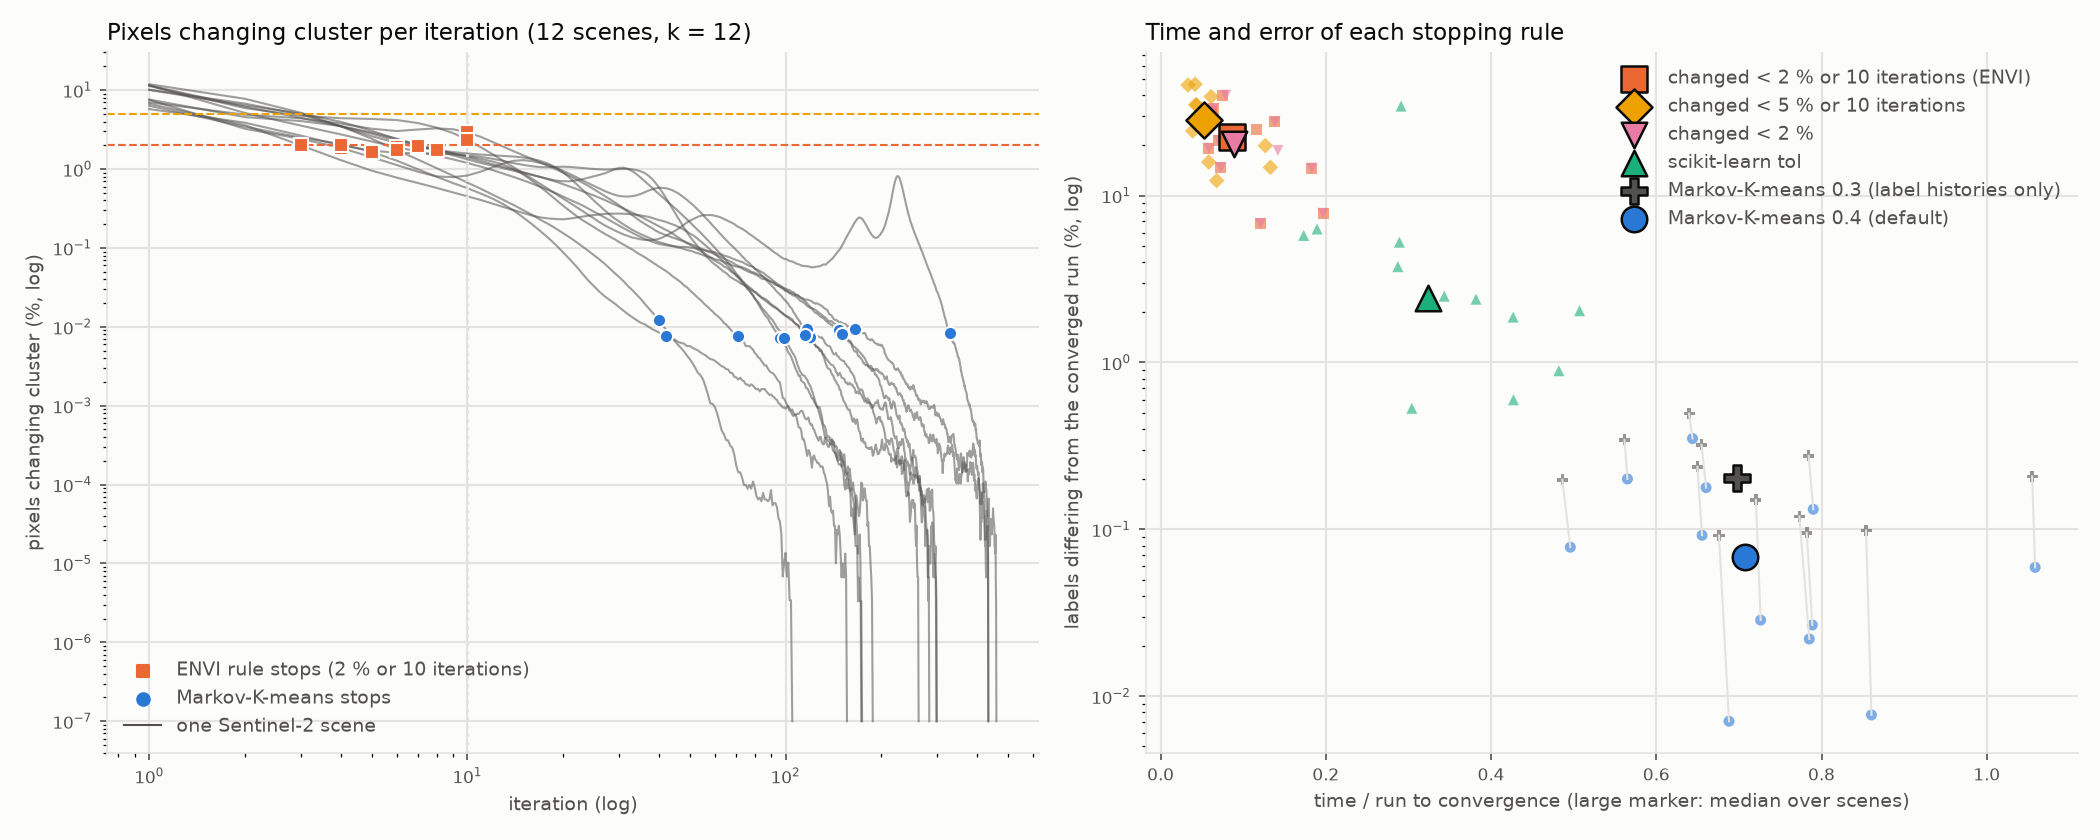
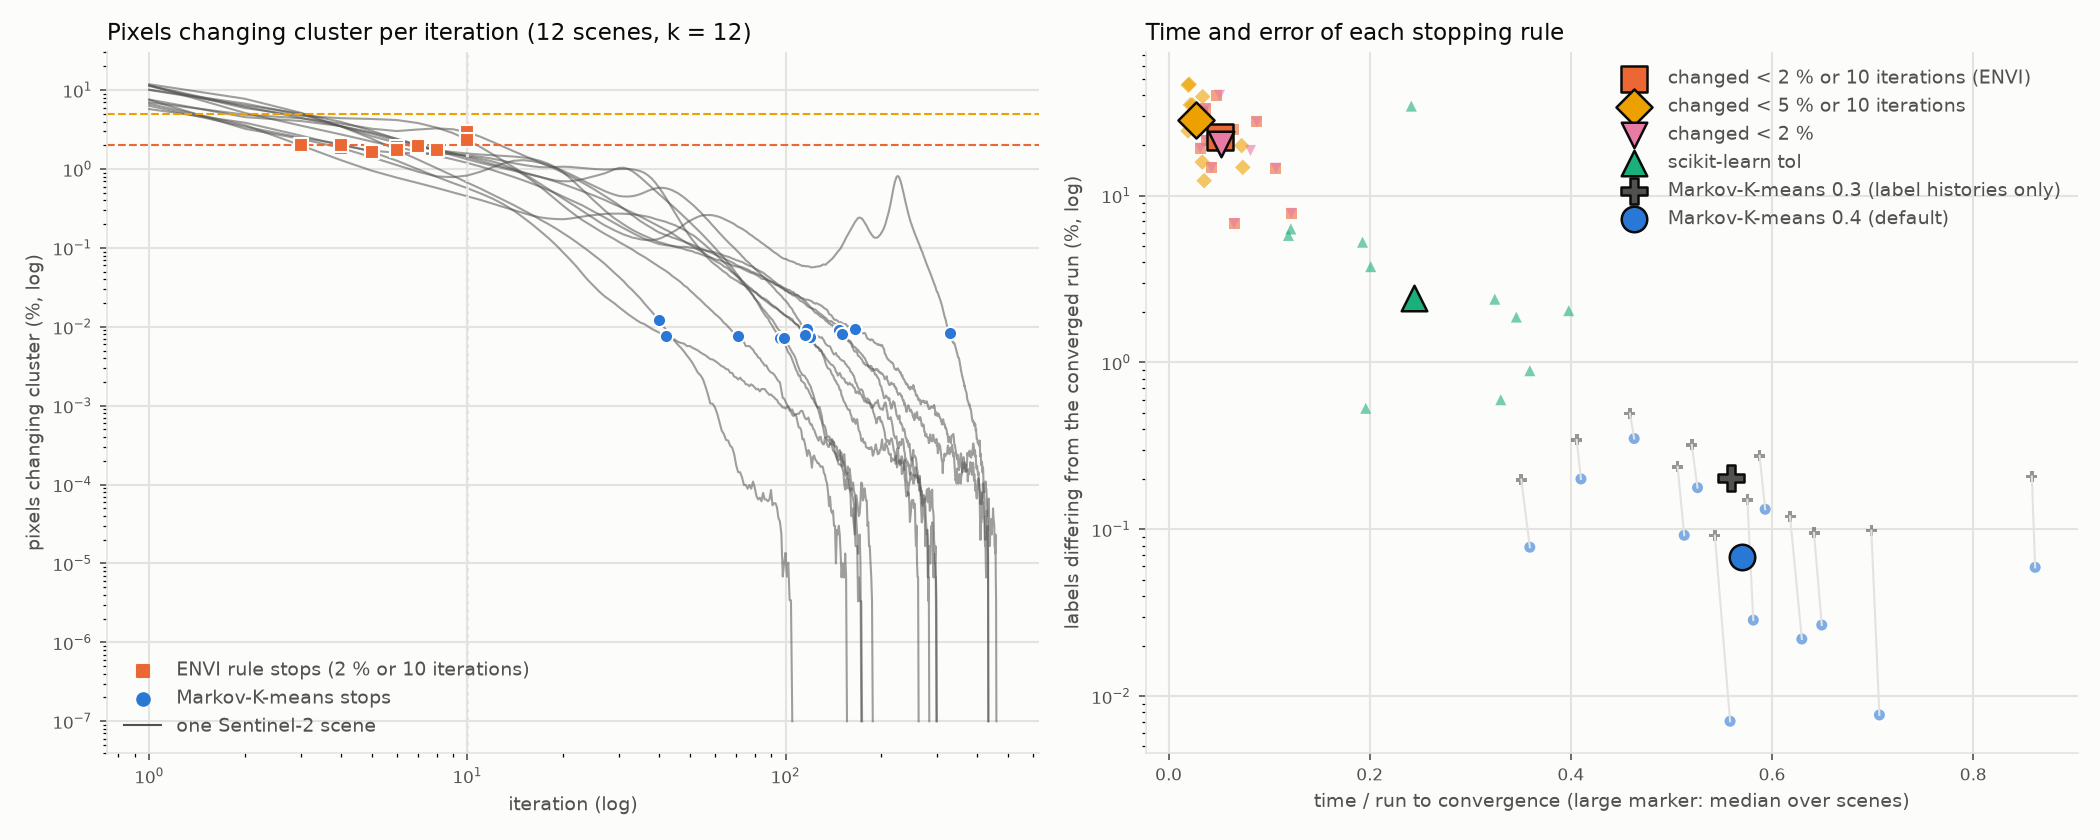
Results section 9 with the 0.4.1 rerun (same labels and stops, shorter times)
Claude-Session: https://claude.ai/code/session_01VqevGQgbnZeRsrAZKVeMPy

diff --git a/docs/results.md b/docs/results.md
@@ -24,7 +24,7 @@
 | **자동 판단 (6절)** | 움직이는 점의 비율, 대표점·분할의 안정성을 보고 개입 시점과 편입 방식을 고르는 규칙을 넣었다. N=10⁶ 10개 사례에서 끝까지 돌린 시간의 6–83%(판정 비용 포함)만 쓰고 오류율 0.05–0.62%를 낸다. 상수 스텝에서는 sklearn식 규칙이 전혀 멈추지 못하는 반면, 이 규칙은 10–62% 시점에서 멈추고 끝까지 돌린 결과와 비슷한 오류를 낸다. |
 | **비용·오차 동시 비교 (6.3절)** | 완성된 절차끼리 시간과 오류를 함께 비교하면, 10개 사례 모두에서 markov-kmeans 0.2.0보다 싸면서 정확한 절차가 없다. 표류 체제에서는 효율적인 정지 지점을 일관되게 고른다(사후 최적 정지 대비 시간 +0–5%, 최대 오류 0.62%). 진동 체제에서는 편입이 비용–오류 곡선 자체를 낮춰, 어떤 "멈춤 + 유지" 절차도 못 내는 결과를 낸다. |
 | **목표 오차별 시간 (6.4절)** | 각 절차의 설정을 바꿔 가며 같은 오류에 드는 시간을 비교하면, 상수 스텝에서는 markov-kmeans가 모든 목표에서 가장 빠르다(오류 ≤ 0.2%에 시간 46%, 다음은 63%). 라벨을 그대로 두는 절차가 끝까지 돌려도 못 내는 오류(≤ 0.1%)도 편입으로만 얻는다. 정확 Lloyd에서는 적응형 규칙들이 거의 같은 곡선 위에 있고, 설정을 조정한 Pérez-Ortega·sklearn tol이 markov-kmeans보다 3–6%p 빠르다. |
-| **실제 위성영상 (9절)** | Sentinel-2 장면 12개(장면당 3천만 화소)에서 수렴까지 105–460회가 걸려 꼬리가 실재한다. 원격탐사 기본값(변경 < 2% 또는 10회)은 시간 6–20%에 수렴 결과와 20%가량 다른 분할에서 멈추고, scikit-learn 기본값은 늦게 재편되는 장면에서 34%가 틀렸다. Markov-K-means는 조정 없이 12개 장면 모두 오차 0.5% 이하에서 멈췄고(0.3: 중앙값 0.20%, 시간 70%), 0.4는 같은 정지에서 중앙값 0.07%(최대 0.35%, 추가 시간 0.6%)다. 미결정 목록과 soft 소속도는 이 데이터(표류 체제)에서 쓸모가 없었다. |
+| **실제 위성영상 (9절)** | Sentinel-2 장면 12개(장면당 3천만 화소)에서 수렴까지 105–460회가 걸려 꼬리가 실재한다. 원격탐사 기본값(변경 < 2% 또는 10회)은 수렴 결과와 20%가량 다른 분할에서 멈추고, scikit-learn 기본값은 늦게 재편되는 장면에서 34%가 틀렸다. Markov-K-means는 조정 없이 12개 장면 모두 오차 0.5% 이하에서 멈췄다(0.3: 중앙값 0.20%). 0.4는 같은 정지에서 중앙값 0.07%(최대 0.35%, 추가 시간 0.6%)다. 0.4.1에서 시간은 끝까지 돌린 것의 중앙값 57%다. 미결정 목록과 soft 소속도는 이 데이터(표류 체제)에서 쓸모가 없었다. |
 | **넓은 지역 · 큰 k (9.1절)** | 한반도 남부 20개 타일(5,533만 화소, 60 m)을 k = 256으로 군집하면 수렴까지 2,752회가 걸린다. 모든 정지 규칙이 고정 반복 수의 시간–오차 곡선 위에 놓이고, Markov-K-means(시간 55%, 라벨 오차 5.8%, SSE 초과 0.012%)도 같은 시간의 고정 반복보다 낫지 않다. 다만 조정 없이 적합도로는 사실상 수렴한 지점을 찾는다. scikit-learn MiniBatchKMeans 기본값은 SSE가 24% 컸다. |
 | **의사 대표점 (10절, 0.4)** | 대표점마다 최근 경로를 AR(1) 연쇄로 맞춘 장기 평균(의사 대표점)으로 재배정하면, 아직 움직이지 않았지만 곧 경계를 넘을 점을 미리 옮긴다. 같은 정지 시점에서 오차가 합성 데이터 10개 사례 모두에서 3–22%, Sentinel-2 12개 장면 모두에서 29–92% 줄었다. 추가 비용은 끝까지 돌린 시간의 0–1.6%다. SSE가 늘면 채택하지 않으므로 0.3보다 나빠지지 않는다. |
 | **응용 (7–8절)** | **색 양자화**(사진 100장, 장당 2–21백만 화소)에서는 화질이 수렴 반복의 32–39% 시점에 이미 0.01 dB 안으로 들어와 긴 꼬리의 가치가 거의 없다. 자동 규칙은 손실 0.002 dB 이하로 안전하지만 보수적이고(시간 79–84%), 표본 학습이 가장 싸다. **EMA VQ 코드북**(MobileNetV2 잠재벡터, 픽셀 패치)에서는 벡터의 5–26%가 계속 코드를 바꾸고 코드가 크게 흔들려 전제가 깨진다. 자동 규칙은 개입하지 않았고, soft 토큰은 거리 기반이 이력 기반 π보다 약 두 배 낫다. |
@@ -1019,7 +1019,7 @@ VQ-VAE·VQGAN 같은 이미지 토크나이저는 인코더 출력 벡터를 가
 **설정**
 * **장면:** 지표 피복이 다른 12곳의 MGRS 타일(110 km × 110 km). 각 타일에서 2024년(순다르반스는 2023년) Sentinel-2 L2A 영상 중 구름이 가장 적은 것을 골랐다(구름 0–0.25%). AWS 공개 저장소(sentinel-cogs)에서 읽었다.
 * **특징:** 20 m 격자의 지표 반사율 10개 밴드(B02, B03, B04, B08은 10 m를 평균, B05, B06, B07, B8A, B11, B12). 장면 분류(SCL)가 결측·포화·구름·구름 그림자·권운으로 표시한 화소는 뺐다. 장면당 화소 2,930만–3,010만 개.
-* **실행:** 장면마다 k=12, k-means++ 초기화로 정확 K-means(Hamerly)를 **라벨이 하나도 바뀌지 않을 때까지** 한 번 돌렸다. 모든 정지 규칙을 같은 반복열 위에서 판정하므로, 규칙 사이의 차이는 멈춘 위치뿐이다.
+* **실행:** 장면마다 k=12, k-means++ 초기화로 정확 K-means(Hamerly)를 **라벨이 하나도 바뀌지 않을 때까지** 한 번 돌렸다. 아래 수치는 0.4.1(4코어 병렬 배정, 10.1절의 Markov 부분)로 다시 돌린 결과다. 라벨과 정지 시점은 0.4.0 때와 모든 장면에서 같고, 시간만 다르다(0.4.0의 결과는 `experiments/results/archive/*_v040.csv`). 모든 정지 규칙을 같은 반복열 위에서 판정하므로, 규칙 사이의 차이는 멈춘 위치뿐이다.
 * **정지 규칙**
 
 | 규칙 | 내용 |
@@ -1056,25 +1056,25 @@ VQ-VAE·VQGAN 같은 이미지 토크나이저는 인코더 출력 벡터를 가
 <!-- TABLE:sentinel2_rules -->
 | 정지 규칙 | 시간 (중앙값) | 시간 (범위) | 오차 (중앙값) | 오차 (최대) | SSE 초과 (중앙값) |
 |---|---|---|---|---|---|
-| 변경 < 2 % 또는 10회 (ENVI 기본값) | 9% | 6%–20% | 22.59% | 39.79% | 2.094% |
-| 변경 < 5 % 또는 10회 | 5% | 3%–13% | 28.23% | 46.46% | 5.566% |
-| 변경 < 2 % (상한 없음) | 9% | 6%–20% | 20.30% | 39.94% | 1.783% |
-| scikit-learn tol (기본값) | 32% | 17%–51% | 2.44% | 34.35% | 0.022% |
-| Markov-K-means 0.3 (라벨 이력 정리만) | 70% | 49%–105% | 0.20% | 0.49% | 0.000% |
-| Markov-K-means 0.4 (기본값) | 71% | 50%–106% | 0.07% | 0.35% | 0.000% |
-| Markov-K-means 0.4 정지 시점 (감시 비용 제외) | 61% | 44%–86% | 0.07% | 0.35% | 0.000% |
+| 변경 < 2 % 또는 10회 (ENVI 기본값) | 5% | 3%–12% | 22.59% | 39.79% | 2.094% |
+| 변경 < 5 % 또는 10회 | 3% | 2%–7% | 28.23% | 46.46% | 5.566% |
+| 변경 < 2 % (상한 없음) | 5% | 3%–12% | 20.30% | 39.94% | 1.783% |
+| scikit-learn tol (기본값) | 24% | 12%–40% | 2.44% | 34.35% | 0.022% |
+| Markov-K-means 0.3 (라벨 이력 정리만) | 56% | 35%–86% | 0.20% | 0.49% | 0.000% |
+| Markov-K-means 0.4 (기본값) | 57% | 36%–86% | 0.07% | 0.35% | 0.000% |
+| Markov-K-means 0.4 정지 시점 (감시 비용 제외) | 54% | 35%–81% | 0.07% | 0.35% | 0.000% |
 | 끝까지 (기준) | 100% | 100%–100% | 0.00% | 0.00% | 0.000% |
 <!-- /TABLE -->
 
 **결과**
 * **꼬리는 실제 위성영상에도 있다.** 3천만 화소 장면이 끝까지 수렴하는 데 105–460회가 걸렸다. 라벨 변화율은 처음 몇 회에 수 %에서 1–2%로 떨어진 뒤, 반복 수백 회에 걸쳐 천천히 줄어든다(그림 왼쪽).
-* **원격탐사 기본값은 너무 일찍 멈춘다.** ENVI 기본값은 시간 6–20%에서 멈추지만, 수렴한 분할과 라벨이 다른 화소가 6.8–39.8%(중앙값 22.6%)다. 10회 상한이 2% 기준보다 먼저 걸린 장면은 아이오와와 센트럴 밸리 2곳이다. 다만 SSE는 0.8–7.8%만 크다. 대략적인 피복 구분이 목적이라면 이 규칙으로 충분하다.
-* **scikit-learn 기본값은 대개 괜찮지만 늦은 재편에서 크게 틀린다.** 시간 17–51%에 오차 중앙값 2.4%다. 하지만 센트럴 밸리처럼 군집이 250회 무렵까지 천천히 재편되는 장면에서는 84회에 멈춰 34%가 틀렸다(그림 왼쪽에서 늦게 솟는 곡선).
-* **Markov-K-means는 조정 없이 늘 수렴 결과 근처에서 멈춘다.** 0.3(라벨 이력 정리만)은 12개 장면 모두 오차 0.09–0.49%(중앙값 0.20%), 시간 49–105%(중앙값 70%)다. 센트럴 밸리에서도 재편이 끝날 때까지 기다렸다(328회).
-* **0.4는 같은 정지 시점에서 오차를 다시 3분의 1로 줄인다.** 의사 대표점으로 재배정하면 12개 장면 모두 오차가 줄어 0.007–0.35%(중앙값 0.07%)가 된다. 추가 시간은 끝까지 돌린 시간의 0.4–1.2%(중앙값 0.6%)이고, SSE 안전장치는 12개 장면 모두에서 새 라벨을 채택했다(아래 표).
+* **원격탐사 기본값은 너무 일찍 멈춘다.** ENVI 기본값은 시간 3–12%에서 멈추지만, 수렴한 분할과 라벨이 다른 화소가 6.8–39.8%(중앙값 22.6%)다. 10회 상한이 2% 기준보다 먼저 걸린 장면은 아이오와와 센트럴 밸리 2곳이다. 다만 SSE는 0.8–7.8%만 크다. 대략적인 피복 구분이 목적이라면 이 규칙으로 충분하다.
+* **scikit-learn 기본값은 대개 괜찮지만 늦은 재편에서 크게 틀린다.** 시간 12–40%에 오차 중앙값 2.4%다. 하지만 센트럴 밸리처럼 군집이 250회 무렵까지 천천히 재편되는 장면에서는 84회에 멈춰 34%가 틀렸다(그림 왼쪽에서 늦게 솟는 곡선).
+* **Markov-K-means는 조정 없이 늘 수렴 결과 근처에서 멈춘다.** 0.3(라벨 이력 정리만)은 12개 장면 모두 오차 0.09–0.49%(중앙값 0.20%), 시간 35–86%(중앙값 56%)다. 센트럴 밸리에서도 재편이 끝날 때까지 기다렸다(328회).
+* **0.4는 같은 정지 시점에서 오차를 다시 3분의 1로 줄인다.** 의사 대표점으로 재배정하면 12개 장면 모두 오차가 줄어 0.007–0.35%(중앙값 0.07%)가 된다. 추가 시간은 끝까지 돌린 시간의 0.3–1.5%(중앙값 0.6%)이고, SSE 안전장치는 12개 장면 모두에서 새 라벨을 채택했다(아래 표).
 * **고정 반복 수로는 같은 결과를 못 낸다.** 오차 1% 이하를 모든 장면에서 얻으려면 약 300회가 필요한데(센트럴 밸리), 12개 장면 중 9개는 300회 안에 끝까지 수렴하므로 그 설정은 사실상 "끝까지 돌리기"와 같다. 오차 0.5% 이하에 필요한 횟수는 장면마다 30회에서 300회 이상까지 달라서 미리 고를 수 없다.
-* **시간 절감은 크지 않다.** 끝까지 돌리는 것 대비 절감은 중앙값 29%(0.4)다. 실제 위성영상은 d=10으로 저차원이라 Hamerly의 늦은 반복이 싸기 때문이다(첫 반복의 1/4–1/7). 감시기 비용이 5–20%p(중앙값 11%p)를 차지해 센트럴 밸리에서는 끝까지 돌리는 것보다 6% 더 걸렸다. 정지 시점만 보면 44–86%(중앙값 61%)다.
-* **감시기 개선:** 처음 실행한 0.3.0의 감시기는 3천만 화소에서 판정 한 번에 1초 넘게 걸려, 서울 장면에서 끝까지 돌린 시간의 101%를 썼다(`experiments/results/archive/`). 판정은 그대로 두고 라벨 기록·군집 크기 계산을 컴파일 코드로 바꾸자 77%로 줄었다. 위 표는 개선 후 결과다.
+* **시간 절감은 중간 정도다.** 끝까지 돌리는 것 대비 절감은 중앙값 43%(14–64%)다. 실제 위성영상은 d=10으로 저차원이라 Hamerly의 늦은 반복이 싸기 때문이다(첫 반복의 1/4–1/7). 감시기 비용은 0.4.1에서 1.2–5.1%(중앙값 3%)다. 0.4.0에서는 5–20%(중앙값 11%)여서, 센트럴 밸리처럼 꼬리가 긴 장면에서는 끝까지 돌리는 것보다 6% 더 걸렸다. 0.4.1에서는 그 장면도 86%에 끝난다. 정지 시점만 보면 35–81%(중앙값 54%)다.
+* **감시기 개선의 역사:** 처음 실행한 0.3.0의 감시기는 3천만 화소에서 판정 한 번에 1초 넘게 걸려, 서울 장면에서 끝까지 돌린 시간의 101%를 썼다. 0.3.1에서 라벨 기록과 군집 크기 계산을 컴파일 코드로 바꾸자 77%로 줄었다. 0.4.1에서는 엔진이 바뀐 점을 알려 주고 Markov 연산을 병렬화해 63%가 되었다(10.1절). 판정은 줄곧 같다. 이전 결과는 `experiments/results/archive/`에 있다.
 
 **0.3과 0.4: 같은 정지 시점, 두 가지 마무리**
 
@@ -1083,16 +1083,16 @@ VQ-VAE·VQGAN 같은 이미지 토크나이저는 인코더 출력 벡터를 가
 |---|---|---|---|---|---|---|---|---|---|---|
 | Seoul | 0.120% | 0.022% | 30,066 | 884 | 0.10% | 97% | 1.2% | 16.1% | 1.2% | 0.94 |
 | Iowa | 0.276% | 0.132% | 43,368 | 1 | 0.14% | 100% | 0.0% | 0.0% | 0.6% | 0.95 |
-| Central Valley | 0.207% | 0.059% | 44,644 | 55 | 0.15% | 100% | 0.0% | 0.4% | 0.4% | 0.95 |
+| Central Valley | 0.207% | 0.059% | 44,644 | 55 | 0.15% | 100% | 0.0% | 0.4% | 0.3% | 0.95 |
 | Sahara | 0.494% | 0.350% | 43,246 | 20 | 0.14% | 100% | 0.0% | 0.1% | 0.4% | 0.95 |
-| Nile Delta | 0.098% | 0.008% | 28,381 | 1,056 | 0.10% | 96% | 0.0% | 45.3% | 0.7% | 0.93 |
-| Netherlands | 0.095% | 0.027% | 28,116 | 7,486 | 0.12% | 79% | 0.1% | 93.0% | 0.7% | 0.93 |
+| Nile Delta | 0.098% | 0.008% | 28,381 | 1,056 | 0.10% | 96% | 0.0% | 45.3% | 0.8% | 0.93 |
+| Netherlands | 0.095% | 0.027% | 28,116 | 7,486 | 0.12% | 79% | 0.1% | 93.0% | 0.8% | 0.93 |
 | Swiss Alps | 0.150% | 0.029% | 36,917 | 672 | 0.13% | 98% | 0.0% | 8.0% | 0.6% | 0.95 |
 | Finland | 0.321% | 0.178% | 42,714 | 19 | 0.14% | 100% | 0.0% | 0.1% | 0.6% | 0.95 |
-| Ganges Plain | 0.237% | 0.092% | 43,697 | 105 | 0.15% | 100% | 0.0% | 0.4% | 0.6% | 0.95 |
+| Ganges Plain | 0.237% | 0.092% | 43,697 | 105 | 0.15% | 100% | 0.0% | 0.4% | 0.7% | 0.95 |
 | Central Australia | 0.343% | 0.201% | 43,004 | 17 | 0.14% | 100% | 0.0% | 0.1% | 0.4% | 0.95 |
-| Sundarbans | 0.092% | 0.007% | 25,537 | 700 | 0.09% | 97% | 0.1% | 34.2% | 1.2% | 0.88 |
-| Amazon | 0.198% | 0.078% | 36,186 | 62 | 0.12% | 100% | 0.4% | 1.0% | 1.0% | 0.89 |
+| Sundarbans | 0.092% | 0.007% | 25,537 | 700 | 0.09% | 97% | 0.1% | 34.2% | 1.5% | 0.88 |
+| Amazon | 0.198% | 0.078% | 36,186 | 62 | 0.12% | 100% | 0.4% | 1.0% | 0.8% | 0.89 |
 <!-- /TABLE -->
 
 * **옮긴 화소는 거의 다 맞다.** 의사 대표점이 옮긴 화소는 장면당 0.09–0.15%이고, 그중 79–100%(12개 중 10개 장면에서 96% 이상)가 끝까지 돌린 결과와 같은 군집으로 갔다. 고친 화소는 장면당 2.6만–4.5만 개, 망친 화소는 대부분 수십–수백 개였다. 예외는 네덜란드(7,486개, 옮긴 화소의 21%)다.
@@ -1140,7 +1140,7 @@ VQ-VAE·VQGAN 같은 이미지 토크나이저는 인코더 출력 벡터를 가
 
 * 미결정 여부와 1 − max π로 혼합 화소를 가려내는 능력은 0.3과 0.4 모두 무작위 수준이다(AUROC 0.50). 미결정 점이 너무 적다(0.1–0.3%). 0.4에서는 의사 대표점이 옮긴 화소도 분수형 소속도를 받아 장면당 3,100–4,600개로 늘었지만, 혼합 화소가 33–81%인 데이터에서 0.1%로는 가려낼 수 없다. 가장 가까운 두 대표점까지의 거리 비는 AUROC 0.73–0.86으로 훨씬 낫다. 표류 체제의 분수형 소속도는 "아직 미결정"일 뿐 혼합 비율이 아니라는 5절의 결론이 실제 위성영상에서도 그대로 확인됐다.
 
-**정리:** 실제 위성영상에서 Markov-K-means의 쓸모는 **"수렴한 분할이 필요하지만 장면마다 정지 기준을 조정하고 싶지 않을 때"**다. 이 경우 기존의 어떤 단일 설정보다 안정적으로 수렴 결과 근처에서 멈추고, 0.4의 의사 대표점은 같은 정지 시점에서 남은 차이를 다시 3분의 1로 줄인다(중앙값 0.20% → 0.07%, 추가 시간 0.6%). 반대로 대략적인 피복 구분이면 싼 규칙으로 충분하고, 혼합 화소 표시에는 거리 기반 지표가 낫다. 시간 절감은 중앙값 30% 안팎이고, 남은 감시기 비용을 반복 계산 안으로 합치면 정지 시점 기준(중앙값 39% 절감)까지 줄일 여지가 있다.
+**정리:** 실제 위성영상에서 Markov-K-means의 쓸모는 **"수렴한 분할이 필요하지만 장면마다 정지 기준을 조정하고 싶지 않을 때"**다. 이 경우 기존의 어떤 단일 설정보다 안정적으로 수렴 결과 근처에서 멈추고, 0.4의 의사 대표점은 같은 정지 시점에서 남은 차이를 다시 3분의 1로 줄인다(중앙값 0.20% → 0.07%, 추가 시간 0.6%). 반대로 대략적인 피복 구분이면 싼 규칙으로 충분하고, 혼합 화소 표시에는 거리 기반 지표가 낫다. 시간 절감은 0.4.1에서 중앙값 43%다.
 
 ### 9.1 넓은 지역 · 큰 k: 한반도 남부 20개 타일, k = 256
 
